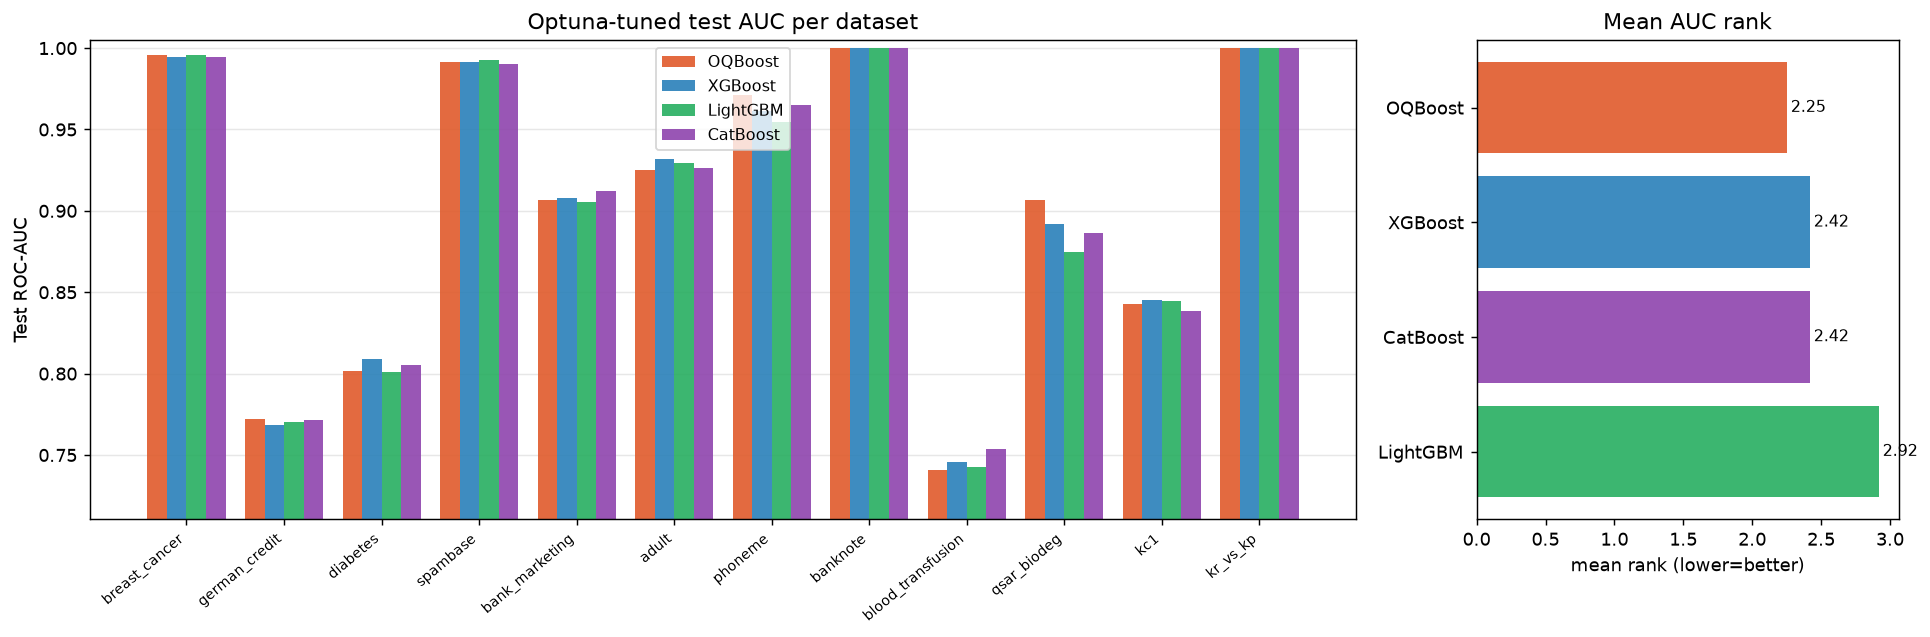
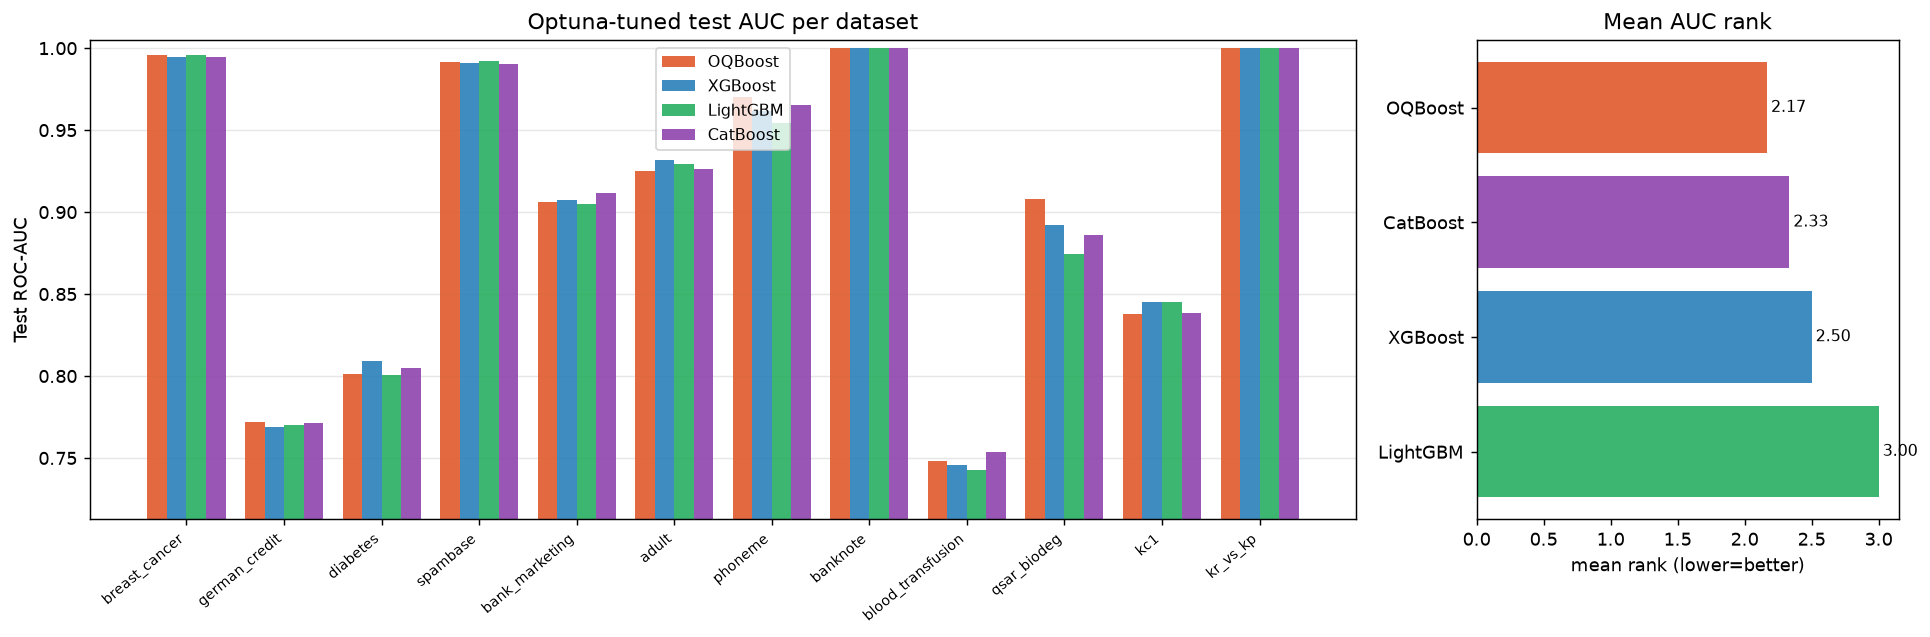
v2.0.3: restore full wheel matrix (linux/win/macos x86+arm), drop env gate

diff --git a/oqboost/__init__.py b/oqboost/__init__.py
@@ -1,5 +1,5 @@
 """OQBoost 2.0 — gradient-boosted 2D-oblique trees (C++ backend, scikit-learn API)"""
 from ._sklearn import OQBoostClassifier, OQBoostRegressor
 
-__version__ = "2.0.2"
+__version__ = "2.0.3"
 __all__ = ["OQBoostClassifier", "OQBoostRegressor"]